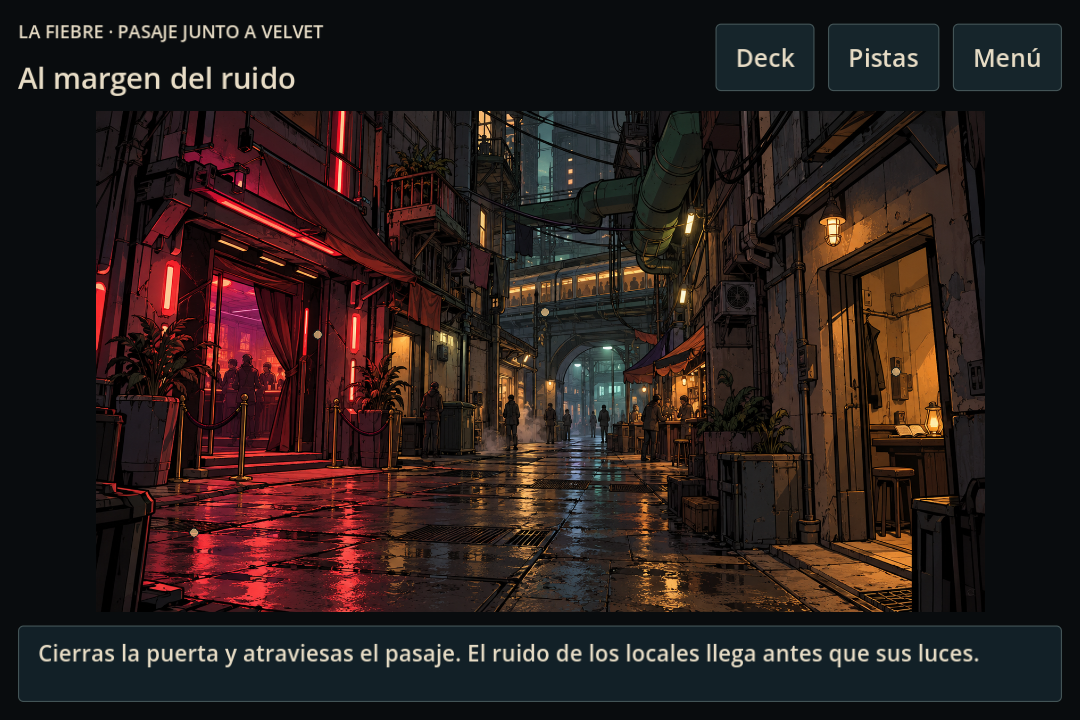
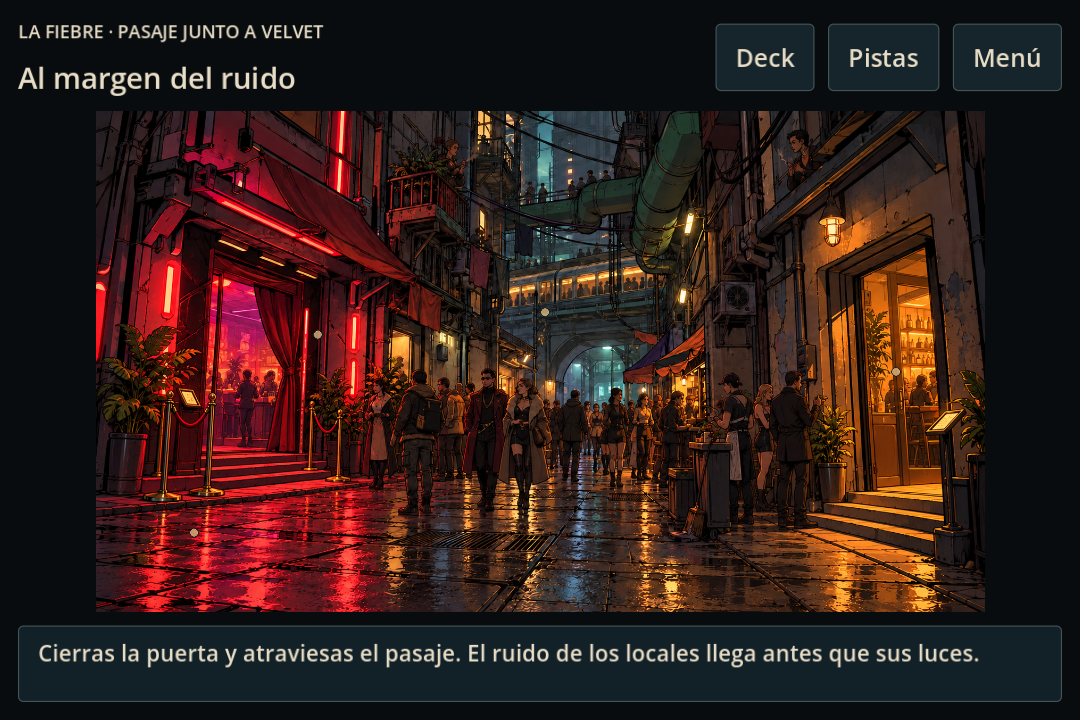
feat: poblar el pasaje de La Fiebre

Changed region(s): [[0.0917, 0.1528, 0.9167, 0.8556], [0.8556, 0.2139, 0.8861, 0.2444]]

diff --git a/docs/ART_DIRECTION.md b/docs/ART_DIRECTION.md
@@ -10,9 +10,13 @@ La ciudad se construye por acumulación: instalaciones añadidas, reparaciones y
 
 El autor suministró el logo rojo sobre fondo claro «EL ARRECIFE PRODUCTS» para la primera pantalla de apertura. Original intacto en `art/originals/branding/el_arrecife_products.png`; copia idéntica en `game/assets/branding/`. No se ha redibujado ni recoloreado. Esta indicación concreta del logo no supone la aprobación de los fondos candidatos ni del texto legal.
 
-Cuatro PNG en `game/assets/backgrounds/candidates/`, generados con la herramienta integrada imagegen y el retrato de Sota como referencia de estilo. Prompts completos en `art/prompts/fondos_hito1.json`; no se ha usado CLI/API externa. Son imágenes aplanadas, **pendientes de aprobación**, no fuentes finales por capas. El menú y las escenas lo indican.
+Cuatro fondos originales en `game/assets/backgrounds/candidates/`, generados con la herramienta integrada imagegen y el retrato de Sota como referencia de estilo. Prompts completos en `art/prompts/fondos_hito1.json`; no se ha usado CLI/API externa. El pasaje original `fiebre.png` sigue intacto. Se conservan dos variantes pobladas: `fiebre_multitud_v1.png` y `fiebre_multitud_v2.png`. La segunda se muestra en el juego para revisar la densidad de población; su proceso está en `art/prompts/fiebre_multitud_v2.md`. Todos son PNG aplanados, **pendientes de aprobación final**, sin fuentes por capas. El menú y las escenas lo indican.
 
-Se conservan los PNG originales de generación. No se ha regenerado ningún personaje. La calle representa la mesa del encuentro mediante un indicador; falta una figura ambiental de la Jefa fiel al retrato. El dormitorio necesita revisar la luz exterior: el tono ámbar debe leerse como bruma iluminada artificialmente, nunca como sol en La Fiebre. También falta verificar continuidad arquitectónica exacta entre las habitaciones.
+Se conservan los PNG originales de generación. No se ha regenerado ningún personaje. **Observación del autor:** gusta el lenguaje visual de los entornos a primera vista, pero hay que revisar sus detalles; las calles de las cotas mostradas deben sentirse densamente pobladas. La variante del pasaje incorpora clientela de distinto poder adquisitivo y personas que trabajan allí, sin convertirlas automáticamente en contactos jugables. Se despejaron las entradas de Velvet y del local contiguo para conservar las interacciones. Aún falta cotejar cada figura, implante, sombra, reflejo y continuidad espacial a tamaño de juego; el local contiguo no atribuye propiedad a la Jefa ni la representa físicamente. El dormitorio necesita revisar la luz exterior: el tono ámbar debe leerse como bruma iluminada artificialmente, nunca como sol en La Fiebre. También falta verificar continuidad arquitectónica exacta entre las habitaciones.
+
+## Población en las cotas mostradas
+
+Las calles y pasos públicos deben tener vida en varias profundidades: gente circulando, esperando, trabajando y asomada a galerías. Mostrar la densidad sin tapar puertas, objetos clave, rutas ni puntos de interacción. La multitud es parte del entorno; sólo algunas personas tienen diálogo. La Fiebre mezcla visitantes con recursos, habitantes y personal de servicio, incluidos trabajadores del ocio y del sexo, representados como adultos con oficios y agencia, sin reducirlos a reclamos. Diferenciar recursos por confección, conservación de la ropa, transporte y mantenimiento de implantes. El Nudo deberá mostrar oficios de red y reparación; Los Puntales, tránsito de cuadrillas y mantenimiento estructural. Estas composiciones concretas son dirección de arte del juego, no nuevas afirmaciones de canon literario.
 
 ## Especificación común de producción
 
@@ -27,17 +31,17 @@ Capas: estructura/fondo, objetos interactivos cuando requieran cambio, luz emisi
 | Dormitorio | Cama izquierda, ventana, deck sobre mesa, puerta derecha | Petróleo/ámbar práctico; ventana, pantalla del deck, polvo opcional |
 | Salón/cocina | Terminal, recibo en mesa, contador, puertas diferenciadas | Ocre y verde apagado; pantalla, indicador del contador |
 | Baño | Espejo sin duplicar avatar, tubería, estante, salida | Fluorescente frío y puerta cálida; goteo opcional ligado al agua |
-| Fiebre: pasaje | Velvet lateral, tránsito peatonal, mesa de reunión separada | Rojo local, sombra azul verdosa; humo/neón por capas |
+| Fiebre: pasaje | Velvet lateral, accesos despejados, multitud de vecinos, clientela y personal; lugar de reunión separado | Rojo local, sombra azul verdosa; humo/neón por capas |
 | Fiebre: umbral | Acceso y control, sin atribuir a Jefa propiedad del local | Contraste interior/exterior; luz de puerta |
 | Fiebre: encuentro | Mesa, libro y lugar propio de la Jefa, sin recepción permanente | Luz de trabajo contenida; figura por diseñar desde retrato |
-| Nudo: acceso | Conductos de red, control, circulación vertical contextual | Verde/cian apagado, estado del lector |
+| Nudo: acceso | Conductos de red, control, circulación vertical y paso público concurrido | Verde/cian apagado, estado del lector |
 | Nudo: taller | Reparación de equipos, componentes y manos/oficios en segundo plano | Trabajo neutro, pantallas aisladas |
 | Nudo: terminal | Puerto físico y equipo de contraste, recibo comparado | Respuesta de pantalla; primer plano separable |
-| Puntales: acceso | Uniones estructurales y paso de trabajadores | Luz industrial cálida, profundidad gris |
+| Puntales: acceso | Uniones estructurales y paso denso de trabajadores, sin bloquear la ruta | Luz industrial cálida, profundidad gris |
 | Puntales: taller | Herramientas, piezas de conducción, registros de trabajo | Luz útil y materiales gastados; objeto comprobable separable |
 | Puntales: trabajo | Estructura que soporta otras cotas, intervención local concreta | Bruma y puntos de servicio; cierre visual pendiente de guion |
 
-Las últimas ocho no tienen fondo aún. Las cuatro actuales requieren aprobación y despiece antes de considerarlas arte final. Faltan música, ambiente y efectos; los controles de audio actúan sobre buses preparados, actualmente sin pistas.
+Las últimas ocho no tienen fondo aún. Los cuatro fondos activos, incluida la variante poblada, requieren aprobación y despiece antes de considerarse arte final. Faltan música, ambiente y efectos; los controles de audio actúan sobre buses preparados, actualmente sin pistas.
 
 ## Originales históricos
 

diff --git a/art/prompts/fiebre_multitud_v2.md b/art/prompts/fiebre_multitud_v2.md
@@ -1,0 +1,19 @@
+# Pasaje poblado de La Fiebre · candidato v2
+
+Generado el 21 oct 2026 con `image_gen` integrado. Objetivo: aumentar la población sin sustituir el diseño urbano ya valorado positivamente por el autor. El original `game/assets/backgrounds/candidates/fiebre.png` no se ha modificado. El resultado seleccionado está en `game/assets/backgrounds/candidates/fiebre_multitud_v2.png`; es un PNG aplanado pendiente de aprobación final.
+
+## Referencias
+
+Primera edición: `fiebre.png` como imagen que editar; `art/originals/sota.png` y `art/originals/jefa.png` sólo como referencias del lenguaje de ilustración. Segunda edición: resultado de la primera como imagen que editar. No se insertó ningún retrato ni se regeneró personaje principal.
+
+## Primera instrucción
+
+> Use case: precise-object-edit. Asset type: candidate 2D illustrated background for a first-person point-and-click cyberpunk game, 16:9 landscape. Input image 1 is the existing La Fiebre street background and EDIT TARGET; inputs 2 and 3 are approved Sota and Jefa portrait STYLE REFERENCES ONLY, do not insert them into the scene. Keep the existing street's camera, architecture, doors, shopfronts, red Velvet entrance, warm right doorway, overhead bridges, wiring, pipes, wet paving, perspective, dusk lighting, palette, and detailed inked illustration style. Primary edit: make this pedestrian street feel genuinely crowded and inhabited, with several dozen human figures distributed in foreground edges, middle distance, shop entrances, balconies and far depth. Include distinct believable groups: affluent visitors with well maintained cyberpunk coats and discreet premium augmentations; local service workers of various genders in practical or nightlife clothing; vendors, cleaners, bar staff, couriers, people waiting or talking. Show social difference through clothing quality and implant maintenance, with human individuality and adult ages. Depict sex workers respectfully as ordinary adult workers among the crowd, no sexual acts or erotic focus. People should occupy physical ground and cast coherent shadows/reflections; preserve a narrow navigable path down the central lane and keep the existing important doors/entrances visually readable. Density should vary naturally by depth, with foreground figures partly cropped at frame edges and small silhouettes deep in the street. Keep the environment as important as the people. No new signs, letters, labels, large cota numbers, logos, speech bubbles, UI, or textual artifacts. No photorealism, 3D, pixel art, anime chibis, blurred faces, duplicated people, floating bodies, empty central plaza, or character portraits. This is a new review candidate, not final approved art.
+
+La primera salida pobló la calle pero tapó las entradas interactivas. Se descartó como fondo activo y se conserva en `game/assets/backgrounds/candidates/fiebre_multitud_v1.png`.
+
+## Corrección y selección
+
+> Use case: precise-object-edit. Asset type: revised candidate 2D background for a first-person point-and-click game. Input image 1 is the latest crowded La Fiebre street and EDIT TARGET. Make ONE targeted compositional correction: clear the existing red Velvet entrance on the left and the warm amber meeting doorway on the right so both entrance thresholds, doors and immediate interaction points are fully visible, unobstructed and easy to tap in a mobile game. Move or reduce only the pedestrians currently overlapping those two doorways, redistributing them naturally into the middle of the street, shopfront groups farther away, upper walkways and depth. Keep the street convincingly crowded: several dozen distinct adult residents, local workers, nightlife workers, wealthy visitors, staff and couriers visible across the scene. Preserve the original architectural geometry, camera, wet ground, lighting, colors, linework, graphic novel shading, crowd social variety and central passage. No prominent named character or portrait. Avoid exposing a big empty plaza. No readable text, UI, labels, floating or duplicated people, sexual acts, 3D, photorealism or pixel art. Keep landscape 16:9 framing.
+
+Pendiente: revisar a tamaño de juego la anatomía y variedad de las figuras pequeñas, sombras/reflejos, ubicación exacta de hotspots, sentido del local de la derecha y representación ambiental de la Jefa. El autor ha valorado positivamente el estilo general de los entornos, no ha aprobado esta variante concreta.

diff --git a/docs/VALIDACION.md b/docs/VALIDACION.md
@@ -2,6 +2,12 @@
 
 20 de octubre de 2026. Godot 4.7.2 oficial, Mac mini M4, Compatibility. Estas pruebas certifican el alcance descrito; no aprueban el arte ni la ficción.
 
+## Revisión del pasaje poblado · 21 oct 2026
+
+Se sustituyó sólo la referencia artística del pasaje por `fiebre_multitud_v2.png`; `fiebre.png` y la primera variante se conservan. Importación Godot sin error; recorrido headless **193/193** y recorrido nativo GPU **216/216**; preservación de canon y originales correcta. El recorrido llegó a La Fiebre, activó el punto de la Jefa y continuó el diálogo. Las capturas reales actualizadas son [pasaje a 1280×720](evidence/10_fiebre.png) y [vista a 844×390](evidence/viewport_844x390.png).
+
+Inspección visual del asistente: las dos entradas y el paso central se leen, la multitud ocupa calle, interiores y pasarelas, y los indicadores siguen sobre la ilustración. En 844×390 las figuras pequeñas pierden detalle, por lo que la variedad de implantes, anatomía, reflejos y legibilidad en teléfono físico siguen pendientes de revisión. La puerta cálida de la derecha parece un local con botellas; hay que decidir si sirve para el encuentro propuesto con la Jefa. Se regeneró la exportación Web y se comprobó que empaqueta la nueva imagen; no se ha repetido la navegación en navegador ni una prueba en móvil físico para esta revisión artística. La variante no está aprobada por el autor.
+
 ## Automatización
 
 | Comprobación | Resultado |

diff --git a/docs/GAME_DESIGN.md b/docs/GAME_DESIGN.md
@@ -33,6 +33,8 @@ No se incorporan tramas ni revelaciones de los protagonistas de las novelas. No 
 | El Nudo | Acceso, reparaciones, puesto de red | Identificadores y reglas; vistas pendientes |
 | Los Puntales | Acceso estructural, taller, zona de trabajo | Identificadores y reglas; vistas pendientes |
 
+Las cotas urbanas visitadas son **La Fiebre (4), El Nudo (3) y Los Puntales (2)**. El apartamento es la cuarta zona jugable, pero su ubicación precisa sigue siendo una propuesta. Las vistas de calles y pasos públicos deben transmitir ciudades muy pobladas: en La Fiebre coinciden residentes, personal de servicio y visitantes de mayores recursos. La densidad ambiental no crea por sí sola nuevos personajes conversables ni altera las restricciones de acceso entre cotas.
+
 Las puertas conectan habitaciones. La salida del apartamento se habilita al aceptar el contrato. Los trayectos entre cotas tienen rutas explícitas en `world.json`; bajar y subir se comprueban por separado. La residencia y la orden de visita justifican regresos concretos. El deck informa de los lugares y nunca permite saltarse estos accesos. Los destinos no construidos explican su estado sin cambiar de pantalla.
 
 ## Contrato principal

diff --git a/task.md b/task.md
@@ -39,6 +39,9 @@ Dirección del autor, 20 oct 2026: aventura **2D ilustrada en primera persona**,
 
 - [ ] Autor: revisar vivienda propuesta, contrato, voz de Sota y encuentro con la Jefa.
 - [ ] Autor: revisar los cuatro fondos candidatos respecto a los retratos originales.
+- [x] Preparar y mostrar una variante poblada del pasaje de La Fiebre, conservando el PNG anterior y sus prompts.
+- [ ] Revisar con el autor la variante poblada a tamaño de juego: personas, implantes, sombras, reflejos, entradas y coherencia con los retratos.
+- [ ] Diseñar los futuros pasos públicos de El Nudo y Los Puntales con densidad de población propia de cada cota.
 - [ ] Resolver luz de Penumbra en la ventana y continuidad espacial entre habitaciones.
 - [ ] Ilustrar a la Jefa en el entorno y producir fuentes por capas.
 - [ ] Completar las dos vistas restantes de La Fiebre y las tres de El Nudo.
